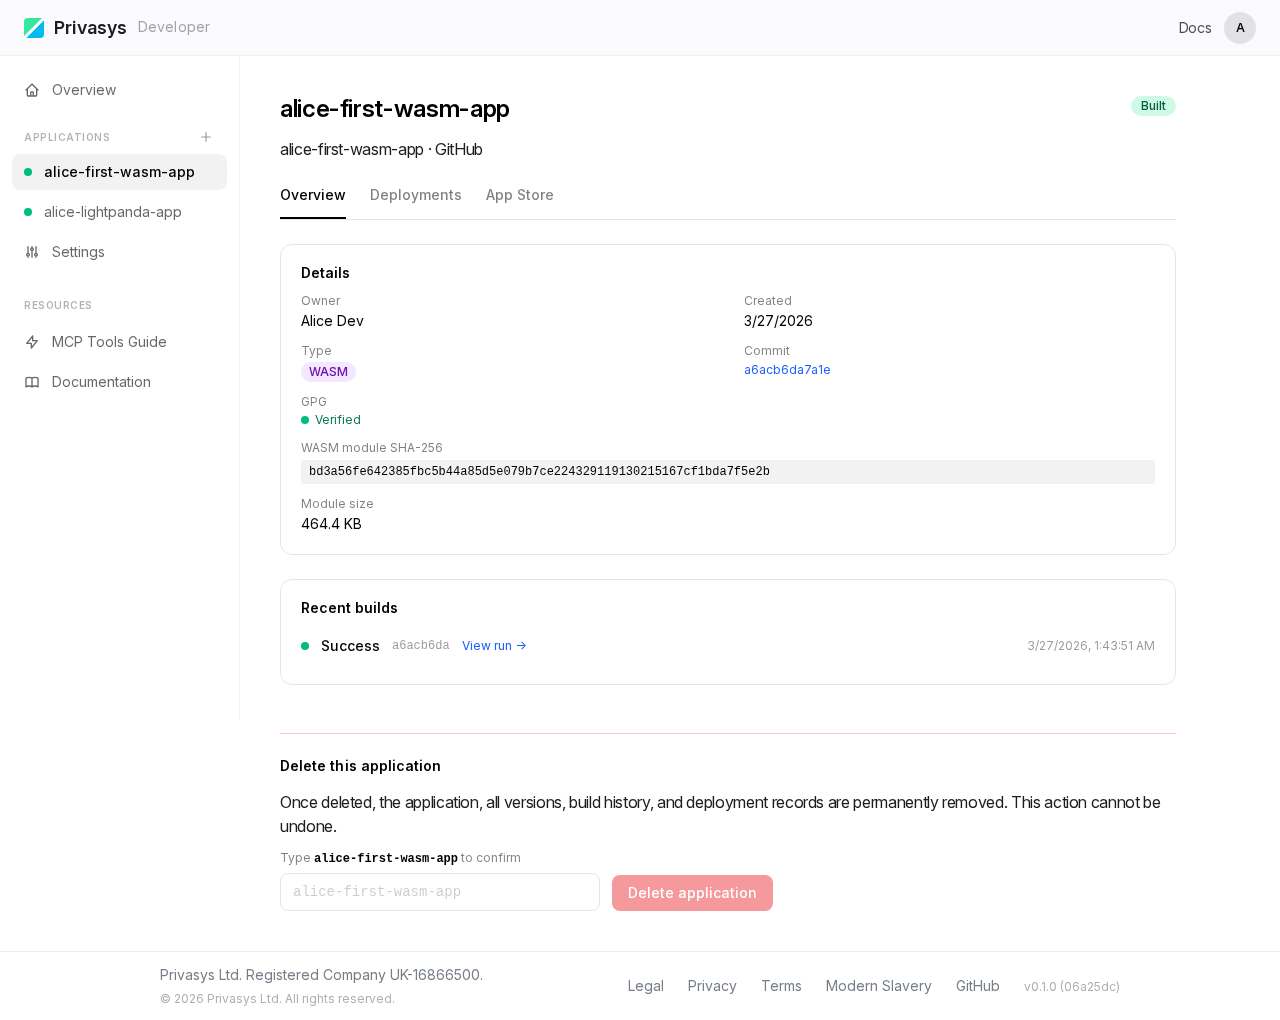
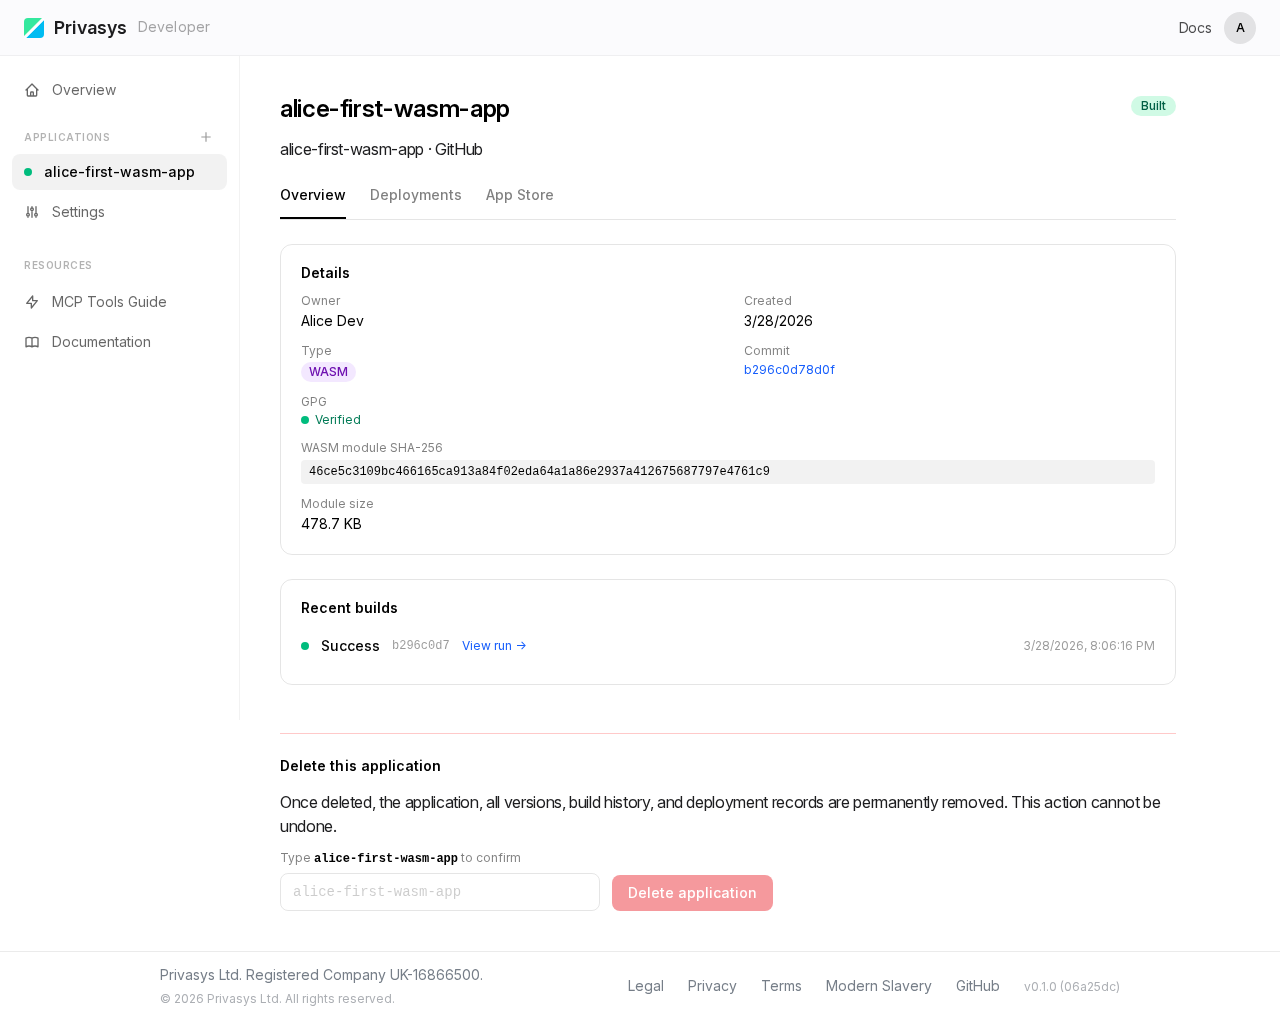
fix(docs): Tutorial images updated

diff --git a/apps/fronts/developer.privasys.org/e2e/tutorial-screenshots.spec.ts b/apps/fronts/developer.privasys.org/e2e/tutorial-screenshots.spec.ts
@@ -24,7 +24,7 @@ import fs from 'fs';
 const TUTORIAL_DIR = path.join(__dirname, 'test-results', 'tutorial');
 const API = process.env.NEXT_PUBLIC_API_URL || 'https://api-test.developer.privasys.org';
 
-const WASM_COMMIT_URL = 'https://github.com/Privasys/wasm-app-example/commit/a6acb6da7a1e01b0a01dbb1bd6fcbd2054b6d345';
+const WASM_COMMIT_URL = 'https://github.com/Privasys/wasm-app-example/commit/b296c0d78d0f7a5504d76abba7e5e5b3af885936';
 const WASM_APP_NAME = 'alice-first-wasm-app';
 
 const CONTAINER_COMMIT_URL = 'https://github.com/Privasys/container-app-lightpanda/commit/9d08f6d6d16c313b8ad7fb9b6e5df763044d9b7d';
@@ -35,8 +35,7 @@ function shot(name: string) {
     return path.join(TUTORIAL_DIR, `${name}.png`);
 }
 
-async function settle(page: Page, ms = 1500) {
-    await page.waitForLoadState('networkidle', { timeout: 10_000 }).catch(() => {});
+async function settle(page: Page, ms = 500) {
     await page.waitForTimeout(ms);
 }
 
@@ -75,6 +74,18 @@ async function deleteAppByApi(page: Page, token: string, appName: string) {
     console.log(`Cleaned up ${appName} (${existing.id})`);
 }
 
+/** Delete ALL apps via the API (clean slate for screenshots). */
+async function deleteAllApps(page: Page, token: string) {
+    const resp = await page.request.get(`${API}/api/v1/apps`, {
+        headers: { Authorization: `Bearer ${token}` },
+    });
+    if (!resp.ok()) return;
+    const apps: { id: string; name: string }[] = await resp.json();
+    for (const app of apps) {
+        await deleteAppByApi(page, token, app.name);
+    }
+}
+
 // ══════════════════════════════════════════════════════════════
 //  WASM APP TUTORIAL
 // ══════════════════════════════════════════════════════════════
@@ -86,9 +97,9 @@ test.describe('WASM App Tutorial', () => {
         await page.goto('/dashboard/');
         await settle(page);
 
-        // Clean up if the app exists from a previous run
+        // Clean up ALL apps from previous runs to ensure empty dashboard
         const token = await getToken(page);
-        await deleteAppByApi(page, token, WASM_APP_NAME);
+        await deleteAllApps(page, token);
         await page.reload();
         await settle(page);
 
@@ -167,6 +178,38 @@ test.describe('WASM App Tutorial', () => {
         await expect(page.getByText('WASM module SHA-256')).toBeVisible({ timeout: 5_000 });
 
         await page.screenshot({ path: shot('wasm-04-overview-built'), fullPage: true });
+    });
+
+    test('wasm-04b — GitHub Actions: reproducible build log', async ({ page }) => {
+        test.setTimeout(60_000);
+
+        // Navigate to the portal first so getToken can fetch /api/auth/session
+        await page.goto('/dashboard/');
+        await settle(page);
+
+        // Fetch the build's run_url from the API
+        const token = await getToken(page);
+        const appsResp = await page.request.get(`${API}/api/v1/apps`, {
+            headers: { Authorization: `Bearer ${token}` },
+        });
+        const apps: { id: string; name: string }[] = await appsResp.json();
+        const app = apps.find(a => a.name === WASM_APP_NAME);
+        expect(app).toBeTruthy();
+
+        const buildsResp = await page.request.get(`${API}/api/v1/apps/${app!.id}/builds`, {
+            headers: { Authorization: `Bearer ${token}` },
+        });
+        const builds: { run_url?: string }[] = await buildsResp.json();
+        const runUrl = builds[0]?.run_url;
+        expect(runUrl).toBeTruthy();
+
+        console.log(`GitHub Actions run URL: ${runUrl}`);
+
+        // Navigate to GitHub Actions run page (auth cookies from setup include github.com)
+        await page.goto(runUrl!);
+        await settle(page, 3000);
+
+        await page.screenshot({ path: shot('wasm-04b-github-actions-hash'), fullPage: true });
     });
 
     test('wasm-05 — Deployments tab with version and region selected', async ({ page }) => {
@@ -299,7 +342,7 @@ test.describe('WASM App Tutorial', () => {
         await sendBtn.click();
 
         // Wait for response
-        await expect(page.getByText(/200 OK/i).or(page.getByText(/error/i))).toBeVisible({ timeout: 30_000 });
+        await expect(page.getByText(/200 OK/i).first()).toBeVisible({ timeout: 30_000 });
         await settle(page, 1000);
 
         await page.screenshot({ path: shot('wasm-07-api-testing-getrandom'), fullPage: true });

diff --git a/apps/fronts/developer.privasys.org/e2e/auth.setup.ts b/apps/fronts/developer.privasys.org/e2e/auth.setup.ts
@@ -26,7 +26,7 @@ setup('authenticate via GitHub', async ({ page }) => {
             JSON.parse(fs.readFileSync(stateFile, 'utf-8')).cookies ?? []
         );
         await page.goto('/dashboard/');
-        await page.waitForLoadState('networkidle', { timeout: 15_000 }).catch(() => {});
+        await page.waitForLoadState('domcontentloaded');
         if (page.url().includes('/dashboard') && !page.url().includes('/login')) {
             const session = await page.evaluate(() => fetch('/api/auth/session').then(r => r.json()));
             if (session?.accessToken) {
@@ -61,7 +61,7 @@ setup('authenticate via GitHub', async ({ page }) => {
     // If we landed on /dashboard (OIDC flow completed instantly), check session
     if (page.url().includes('/dashboard')) {
         // Wait for the page to fully hydrate
-        await page.waitForLoadState('networkidle');
+        await page.waitForLoadState('domcontentloaded');
         const session = await page.evaluate(() => fetch('/api/auth/session').then(r => r.json()));
         console.log('Session after auto-redirect:', JSON.stringify(session).substring(0, 200));
         if (session?.accessToken) {
@@ -76,7 +76,7 @@ setup('authenticate via GitHub', async ({ page }) => {
         // Wait for login page which should redirect to Zitadel
         await page.waitForURL(/auth\.privasys\.org|github\.com|\/dashboard/, { timeout: 30_000 });
         if (page.url().includes('/dashboard')) {
-            await page.waitForLoadState('networkidle');
+            await page.waitForLoadState('domcontentloaded');
             const fresh = await page.evaluate(() => fetch('/api/auth/session').then(r => r.json()));
             console.log('Session after re-auth:', JSON.stringify(fresh).substring(0, 200));
             if (fresh?.accessToken) {
@@ -95,7 +95,7 @@ setup('authenticate via GitHub', async ({ page }) => {
             console.log('Zitadel account picker detected — selecting account.');
             await accountEntry.click();
             await page.waitForURL(/\/dashboard/, { timeout: 30_000 });
-            await page.waitForLoadState('networkidle');
+            await page.waitForLoadState('domcontentloaded');
             const session = await page.evaluate(() => fetch('/api/auth/session').then(r => r.json()));
             if (session?.accessToken) {
                 console.log('Authenticated via Zitadel account picker, saving state.');
